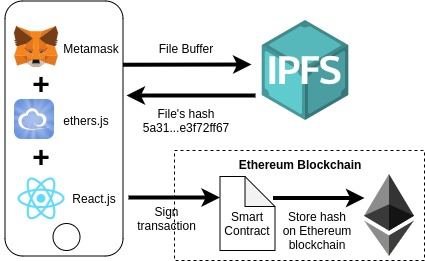
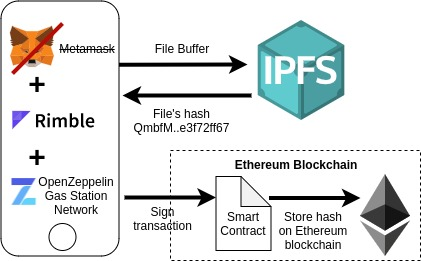
Update README

diff --git a/README.md b/README.md
@@ -1,5 +1,5 @@
-# ipfs-upload-dapp
-Uploads file to IPFS and stores corresponding hash on Ethereum
+# IPFS file upload (D)app
+Uploads file to IPFS and stores corresponding hash on Ethereum without requiring user to spend gas.
 
 ## Architecture
 ![Diagram](./img/diagram.jpg)
@@ -15,13 +15,13 @@ Uploads file to IPFS and stores corresponding hash on Ethereum
 Based on this [tutorial](https://www.freecodecamp.org/news/hands-on-get-started-with-infura-and-ipfs-on-ethereum-b63635142af0/)
 with the following improvements/changes:
 - Add tests
-- Use [Gas Station Network](https://gsn.openzeppelin.com/) to turn dapp into app
-- Use rimble UI for front end styling
-- Use ethers.js instead of web3.js
+- **Use [Gas Station Network](https://gsn.openzeppelin.com/) to turn dapp into app**
+- Use Rimble UI for front end styling
 
 ### Tech stack
 - [Openzeppelin GSN Starter Kit](https://docs.openzeppelin.com/starter-kits/2.3/gsnkit)
 - [React](https://reactjs.org/)
 - [Rimble UI](https://rimble.consensys.design/)
 - [Infura](https://infura.io/): Ethereum|IPFS API & Gateway
-- [ethers.js](https://github.com/ethers-io/ethers.js/): Complete Ethereum wallet implementation and utilities in JavaScript
+- [web3.js](https://github.com/ethereum/web3.js/): Ethereum JavaScript API
+- [Ganache](https://github.com/trufflesuite/ganache): Personal blockchain for Ethereum development
